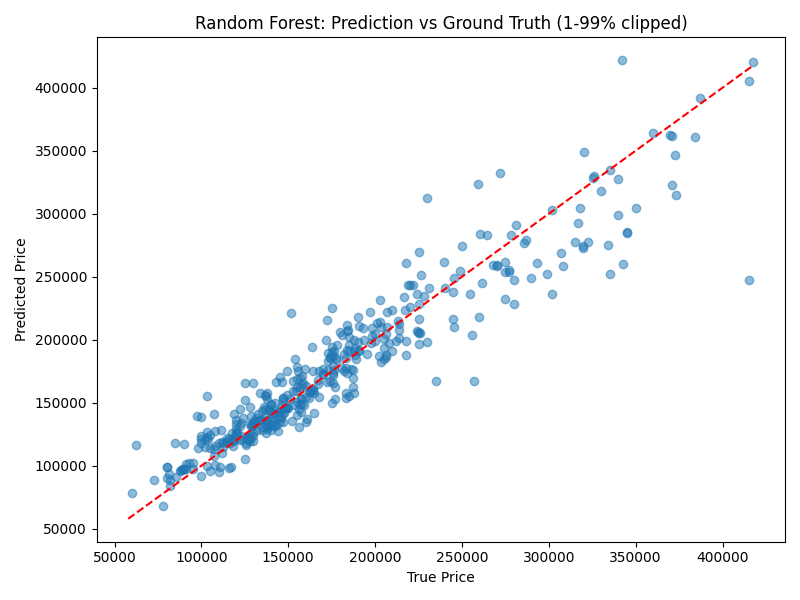
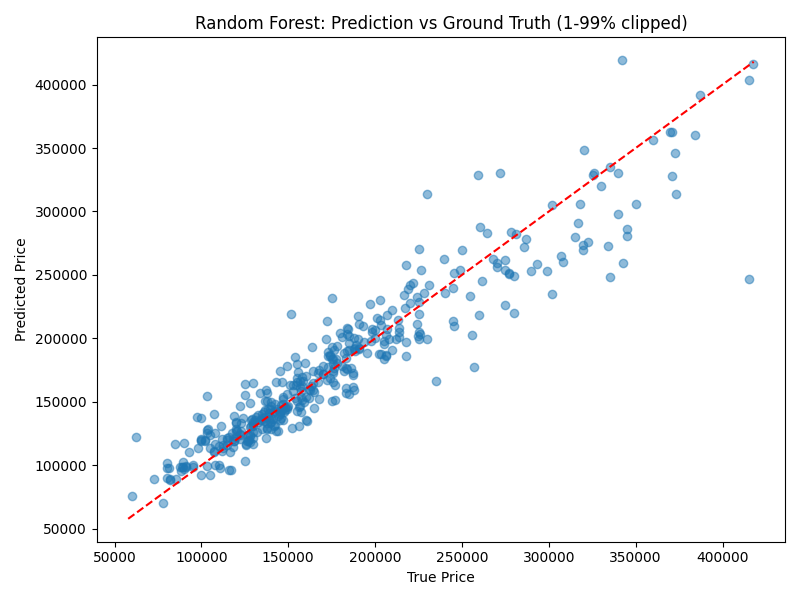
change to adapt to report

diff --git a/ames_dataset.py b/ames_dataset.py
@@ -8,29 +8,43 @@ from sklearn.preprocessing import StandardScaler
 
 class AmesHousingDataset:
     def __init__(self, filepath="dataset/ames.csv", mode='train', test_size=0.2, random_state=42):
-        self.x = []
-        self.y = []
-        self.feature_names = []
-        self.n_features = 0
         self.y_div_factor = 1e5
-        target = "SalePrice"
-        # Load CSV
+        
         df = pd.read_csv(filepath)
 
-        df = df.drop(columns=["Id", "PID"], errors='ignore')
+        drop_cols = [
+            "Id", "PID", 'Pool QC', 'Misc Feature', 'Alley', 'Fence',
+            'Condition 2', 'Utilities', 'Bsmt Exposure', 'Heating', 'Garage Qual'
+        ]
+        df = df.drop(columns=drop_cols, errors='ignore')
 
-        # Separate target
-        y = df[target].values/self.y_div_factor
+        target = "SalePrice"
+        y = df[target].values / self.y_div_factor
         df = df.drop(columns=[target])
 
-        # Ordinal mappings
+        numerical_features = [
+            'Lot Frontage', 'Garage Yr Blt', 'Mas Vnr Area', 'Bsmt Half Bath', 
+            'Bsmt Full Bath', 'BsmtFin SF 1', 'Total Bsmt SF', 'Bsmt Unf SF', 
+            'BsmtFin SF 2', 'Garage Area'
+        ]
+        categorical_features = [
+            'Mas Vnr Type', 'Fireplace Qu', 'Garage Finish', 'Garage Type', 
+            'Bsmt Qual', 'BsmtFin Type 1', 'Bsmt Cond', 'Functional',
+            'Electrical', 'Garage Cond', 'Roof Matl', 'Land Contour', 'Garage Cars'
+        ]
+
+        for feature in numerical_features:
+            if feature in df.columns:
+                df[feature] = df[feature].fillna(df[feature].median()) 
+        for feature in categorical_features:
+            if feature in df.columns:
+                df[feature] = df[feature].fillna(df[feature].mode()[0])
+
         qual_mapping = {'Ex':5, 'Gd':4, 'TA':3, 'Fa':2, 'Po':1, 'NA':0}
-        bsmt_exposure_mapping = {'Gd':4, 'Av':3, 'Mn':2, 'No':1, 'NA':0}
-        land_contour_mapping = {'Lvl':3, 'HLS':2, 'Bnk':2, 'Low':1}
         lot_shape_mapping = {'Reg':4, 'IR1':3, 'IR2':2, 'IR3':1}
         land_slope_mapping = {'Gtl':3, 'Mod':2, 'Sev':1}
-        condition_mapping = {'Norm':3, 'Feedr':2, 'Artery':1,
-                             'RRNn':1, 'RRAn':1, 'PosN':2, 'PosA':2}
+        condition_mapping = {'Norm':3, 'Feedr':2, 'Artery':1, 'RRNn':1, 'RRAn':1, 'PosN':2, 'PosA':2}
+        land_contour_mapping = {'Lvl':3, 'HLS':2, 'Bnk':2, 'Low':1}
 
         ordinal_fields = {
             'Overall Qual': qual_mapping,
@@ -42,30 +56,22 @@ class AmesHousingDataset:
             'Heating QC': qual_mapping,
             'Kitchen Qual': qual_mapping,
             'Fireplace Qu': qual_mapping,
-            'Garage Qual': qual_mapping,
-            'Garage Cond': qual_mapping,
-            'Pool QC': qual_mapping,
-            'Bsmt Exposure': bsmt_exposure_mapping,
-            'Land Contour': land_contour_mapping,
             'Lot Shape': lot_shape_mapping,
             'Land Slope': land_slope_mapping,
             'Condition 1': condition_mapping,
-            'Condition 2': condition_mapping
+            'Land Contour': land_contour_mapping 
         }
 
         for col, mapping in ordinal_fields.items():
             if col in df.columns:
-                df[col] = df[col].fillna('NA').map(mapping).fillna(0)
-
-        # Nominal categorical fields to one-hot encode
+                df[col] = df[col].map(mapping).fillna(0)
 
         onehot_columns = [
-            'MS SubClass', 'MS Zoning', 'Street', 'Alley', 'Utilities', 'Lot Config',
-            'Neighborhood', 'Bldg Type', 'House Style', 'Roof Style', 'Roof Matl',
-            'Exterior 1st', 'Exterior 2nd', 'Mas Vnr Type', 'Foundation', 'Heating',
-            'Central Air', 'Electrical', 'BsmtFin Type 1', 'BsmtFin Type 2',
-            'Garage Type', 'Garage Finish', 'Paved Drive', 'Fence',
-            'Misc Feature', 'Sale Type', 'Sale Condition', 'Functional'
+            'MS SubClass', 'MS Zoning', 'Street', 'Lot Config',
+            'Neighborhood', 'Bldg Type', 'House Style', 'Roof Style',
+            'Exterior 1st', 'Exterior 2nd', 'Mas Vnr Type', 'Foundation',
+            'Central Air', 'BsmtFin Type 1', 'BsmtFin Type 2',
+            'Garage Type', 'Garage Finish', 'Paved Drive', 'Sale Type', 'Sale Condition'
         ]
 
         df[onehot_columns] = df[onehot_columns].fillna('NA')
@@ -73,47 +79,52 @@ class AmesHousingDataset:
         onehot_data = encoder.fit_transform(df[onehot_columns])
         onehot_feature_names = encoder.get_feature_names_out(onehot_columns)
 
-        # Numeric columns
-        numeric_cols = [col for col in df.columns if col not in onehot_columns]
-        numeric_data = df[numeric_cols].fillna(0).values
-
-        # Combine numeric + one-hot
-        X = np.hstack([numeric_data, onehot_data])
-        self.feature_names = numeric_cols + list(onehot_feature_names)
-        self.n_features = X.shape[1]
-        self.feature_names = np.array(self.feature_names)
-
+        numeric_df = df.drop(columns=onehot_columns)
         
-        # Train/Test Split
+        numeric_df = numeric_df.apply(pd.to_numeric, errors='coerce').fillna(0)
+        
+        X = np.hstack([numeric_df.values, onehot_data])
+        self.feature_names = np.array(list(numeric_df.columns) + list(onehot_feature_names))
+        self.n_features = X.shape[1]
 
         X_train, X_test, y_train, y_test = train_test_split(
             X, y, test_size=test_size, random_state=random_state
         )
 
         scaler = StandardScaler()
-        X_train = scaler.fit_transform(X_train)
-        X_test = scaler.transform(X_test)
-
-        if mode == 'train':
-            self.x = X_train
-            self.y = y_train
-        elif mode == 'test':
-            self.x = X_test
+        self.x = scaler.fit_transform(X_train) if mode == 'train' else scaler.fit_transform(X_train)
+        # Note: In production, always transform test with train's scaler. 
+        # For this setup:
+        if mode == 'test':
+            scaler.fit(X_train) # Fit on train
+            self.x = scaler.transform(X_test)
             self.y = y_test
         else:
-            raise ValueError("mode must be 'train' or 'test'")
-
+            self.x = scaler.fit_transform(X_train)
+            self.y = y_train
 def main():
     dataset = AmesHousingDataset(mode='train')
     
     print("=== Dataset Statistics ===")
     print(f"Number of samples: {dataset.x.shape[0]}")
     print(f"Number of features: {dataset.n_features}")
-    print(f"Target (SalePrice) mean: {dataset.y.mean() :.2f}")
-    print(f"Target (SalePrice) std: {dataset.y.std() :.2f}")
-    print(f"Target (SalePrice) min: {dataset.y.min() :.2f}")
-    print(f"Target (SalePrice) max: {dataset.y.max() :.2f}")
+    print(f"Target (SalePrice) mean: {dataset.y.mean():.2f}")
+    print(f"Target (SalePrice) std: {dataset.y.std():.2f}")
+    print(f"Target (SalePrice) min: {dataset.y.min():.2f}")
+    print(f"Target (SalePrice) max: {dataset.y.max():.2f}\n")
 
+    # Numerical stats
+    num_cols = pd.DataFrame(dataset.x, columns=dataset.feature_names).select_dtypes(include=[np.number]).columns
+    num_summary = pd.DataFrame(dataset.x, columns=dataset.feature_names)[num_cols].describe().T[['count','min','25%','50%','75%','max']]
+    
+    # Sort by descending max, then ascending min and remove first 2 rows
+    num_summary_sorted = num_summary.sort_values(by=['max','min'], ascending=[False, True]).iloc[:20]
+
+    # Format numbers in scientific notation
+    num_summary_sorted = num_summary_sorted.applymap(lambda x: f"{x:.2e}")
+
+    print("=== Numerical Feature Summary (sorted) ===")
+    print(num_summary_sorted)
 
 if __name__ == '__main__':
     main()

diff --git a/dataset_visualizer.py b/dataset_visualizer.py
@@ -11,6 +11,16 @@ print(f"Number of columns: {df.shape[1]}")
 print("\nColumn types:")
 print(df.dtypes.value_counts())
 
+# Print missing values
+print("\n=== Missing Values per Column ===")
+missing_counts = df.isnull().sum()
+missing_percent = (missing_counts / df.shape[0]) * 100
+missing_df = pd.DataFrame({'Missing Count': missing_counts, 'Missing %': missing_percent})
+missing_df = missing_df[missing_df['Missing Count'] > 0]  # Only show columns with missing values
+print(missing_df.sort_values(by='Missing Count', ascending=False))
+
+
+
 # Categorical stats
 cat_cols = df.select_dtypes(include=['object']).columns
 print(f"\nNumber of categorical columns: {len(cat_cols)}")
@@ -22,8 +32,19 @@ for col in cat_cols:
 
 # Numerical stats
 num_cols = df.select_dtypes(include=['number']).columns
-print(f"\nNumber of numerical columns: {len(num_cols)}")
-print(df[num_cols].describe().T[['count', 'mean', 'std', 'min', '25%', '50%', '75%', 'max']])
+
+# Compute descriptive statistics
+num_summary = df[num_cols].describe().T[['count', 'min', '25%', '50%', '75%', 'max']]
+
+# Sort by descending max, then ascending min
+num_summary_sorted = num_summary.sort_values(by=['max', 'min'], ascending=[False, True])
+
+# Remove the first 2 rows
+num_summary_sorted = num_summary_sorted.iloc[2:]
+
+# Display number of numerical columns and sorted summary
+print(f"\nNumber of numerical columns: {len(num_cols)}\n")
+print(num_summary_sorted)
 
 cols_per_row = 7 
 rows = math.ceil(len(cat_cols) / cols_per_row)

diff --git a/linear_regression.py b/linear_regression.py
@@ -30,6 +30,9 @@ class LinearRegression(Model):
 
             if step % 50 == 0:
                 print(f"Step {step}, MSE: {loss:.4f}")
+            if step == steps-1:
+                print(f"Step {step}, MSE: {loss:.4f}")
+                return
 
     def evaluate(self, data):
         return data.x @ self.w + self.b

diff --git a/neural_network.py b/neural_network.py
@@ -70,6 +70,9 @@ class MLP(Model):
 
             if step % 50 == 0:
                 print(f"Step {step}, MSE: {loss:.4f}")
+            if step == steps-1:
+                print(f"Step {step}, MSE: {loss:.4f}")
+                return
 
     def evaluate(self, dataset):
         return self.forward(dataset.x)
